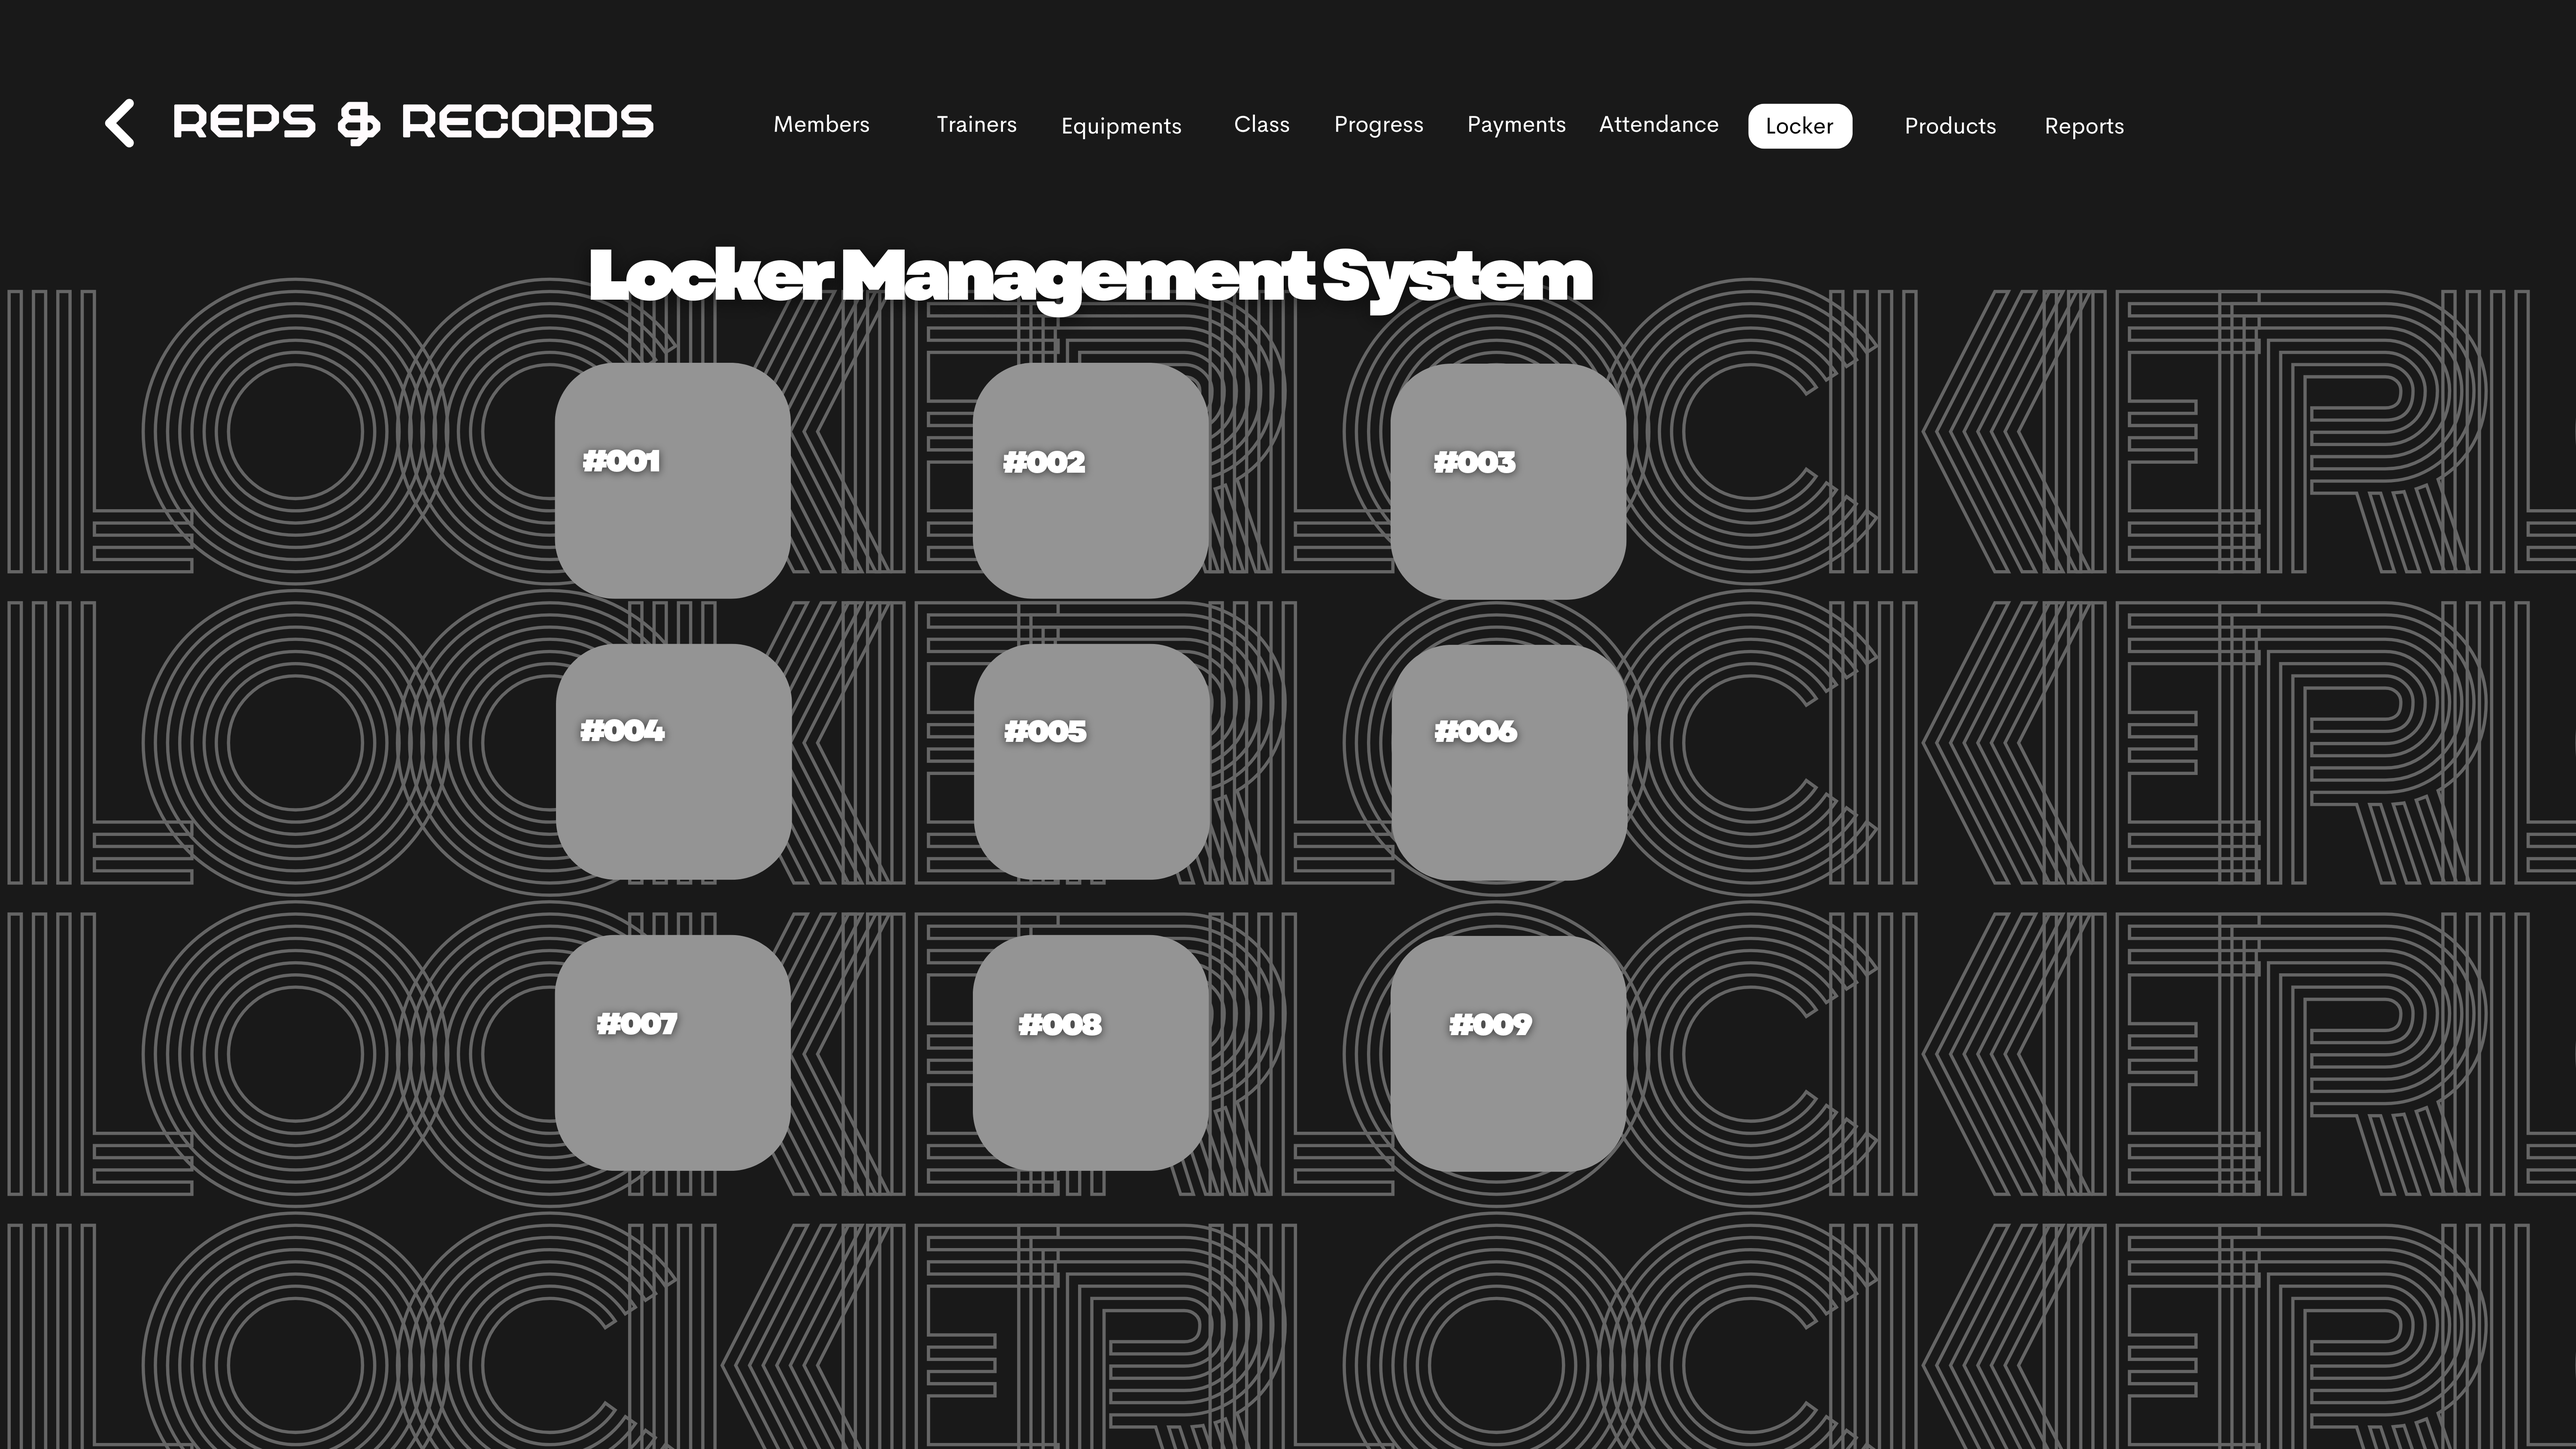
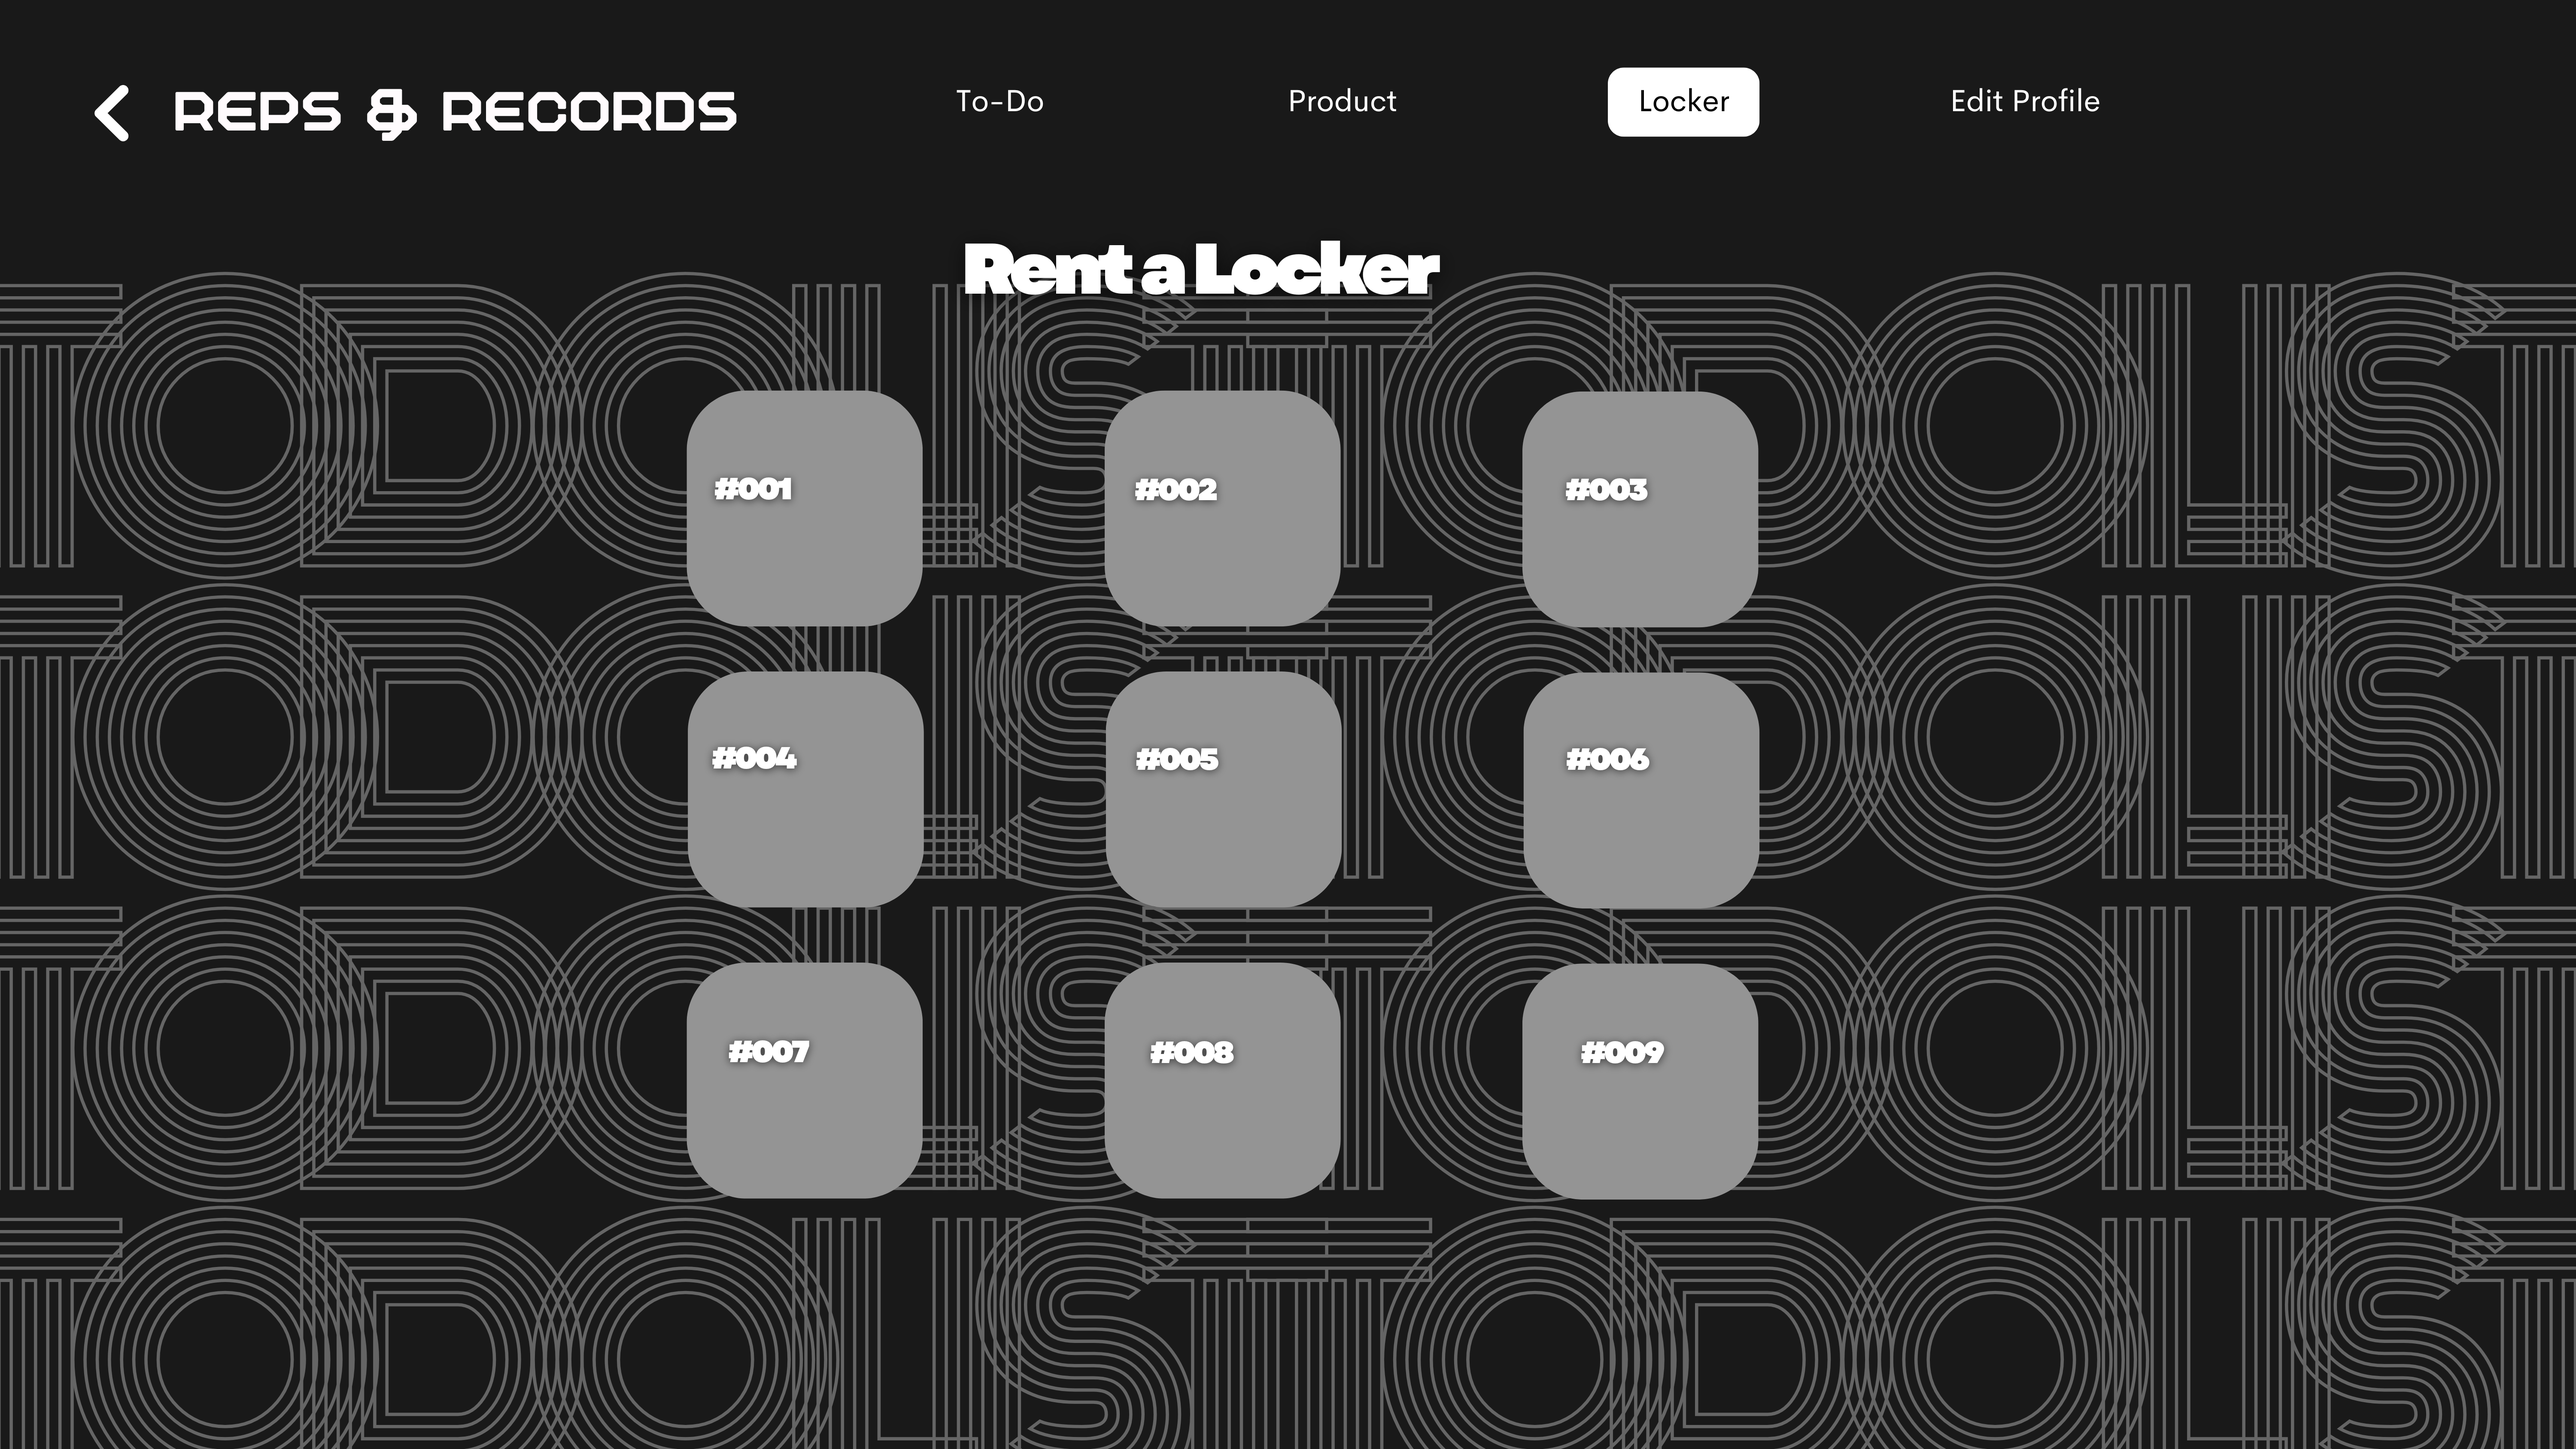
reports all working

diff --git a/src/main/java/com/gymdb/controller/LockerUsageReportController.java b/src/main/java/com/gymdb/controller/LockerUsageReportController.java
@@ -32,6 +32,27 @@ public class LockerUsageReportController {
     @FXML
     public void initialize() {
         loadLockerUsageData();
+
+        javafx.application.Platform.runLater(() -> {
+
+            // PIE LABELS → make white
+            lockerUsageChart.lookupAll(".chart-pie-label").forEach(label -> {
+                label.setStyle("-fx-fill: white; -fx-font-size: 16px;");
+            });
+
+            // CHART TITLE → keep black
+            if (lockerUsageChart.lookup(".chart-title") != null) {
+                lockerUsageChart.lookup(".chart-title")
+                        .setStyle("-fx-text-fill: black;");
+            }
+
+            // LEGEND TEXT → keep black
+            lockerUsageChart.lookupAll(".chart-legend-item").forEach(item -> {
+                if (item.lookup(".label") != null) {
+                    item.lookup(".label").setStyle("-fx-text-fill: black;");
+                }
+            });
+        });
     }
 
     private void loadLockerUsageData() {
@@ -48,8 +69,8 @@ public class LockerUsageReportController {
         }
 
         lockerUsageChart.setData(data);
-        lockerUsageChart.setTitle("Locker Usage Report");
         lockerUsageChart.setLabelsVisible(true);
+
     }
 
     @FXML
@@ -78,7 +99,7 @@ public class LockerUsageReportController {
 
     @FXML
     private void handleBack(ActionEvent event) throws IOException {
-        FXMLLoader loader = new FXMLLoader(getClass().getResource("/fxmls/MainMenu.fxml"));
+        FXMLLoader loader = new FXMLLoader(getClass().getResource("/fxmls/ReportsMenu.fxml"));
         Parent root = loader.load();
         Stage stage = (Stage) ((Node) event.getSource()).getScene().getWindow();
         stage.setScene(new Scene(root));

diff --git a/src/main/java/com/gymdb/services/ReportService.java b/src/main/java/com/gymdb/services/ReportService.java
@@ -209,8 +209,8 @@ public abstract class ReportService {
         String sql = """
         SELECT
             CASE
-                WHEN status = 'rented' AND rentalEndDate >= CURDATE() THEN 'Active Rental'
-                WHEN status = 'rented' AND rentalEndDate < CURDATE() THEN 'Overdue Rental'
+                WHEN status = 'Occupied' AND rentalEndDate >= CURDATE() THEN 'Active Rental'
+                WHEN status = 'Occupied' AND rentalEndDate < CURDATE() THEN 'Overdue Rental'
                 ELSE 'Available'
             END AS category,
             COUNT(*) AS locker_count,

diff --git a/src/main/java/com/gymdb/controller/RetailSalesReportController.java b/src/main/java/com/gymdb/controller/RetailSalesReportController.java
@@ -116,7 +116,7 @@ public class RetailSalesReportController {
 
     @FXML
     private void handleBack(ActionEvent event) throws IOException {
-        FXMLLoader loader = new FXMLLoader(getClass().getResource("/fxmls/MainMenu.fxml"));
+        FXMLLoader loader = new FXMLLoader(getClass().getResource("/fxmls/ReportsMenu.fxml"));
         Parent root = loader.load();
         Stage stage = (Stage) ((Node) event.getSource()).getScene().getWindow();
         stage.setScene(new Scene(root));

diff --git a/src/main/java/com/gymdb/controller/MembersActivityReportController.java b/src/main/java/com/gymdb/controller/MembersActivityReportController.java
@@ -658,7 +658,7 @@ public class MembersActivityReportController {
 
     @FXML
     private void handleBack(ActionEvent event) throws IOException {
-        Parent root = FXMLLoader.load(getClass().getResource("/fxmls/MainMenu.fxml"));
+        Parent root = FXMLLoader.load(getClass().getResource("/fxmls/ReportsMenu.fxml"));
         Stage stage = (Stage) ((Node) event.getSource()).getScene().getWindow();
         stage.setScene(new Scene(root));
         stage.show();
